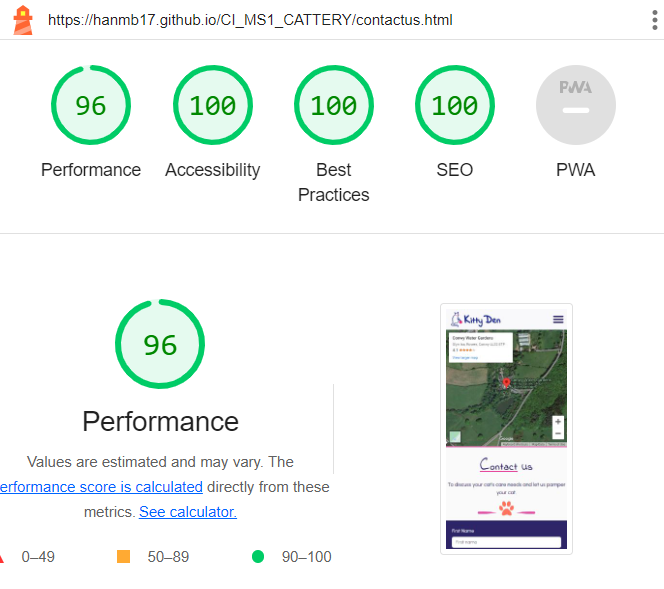
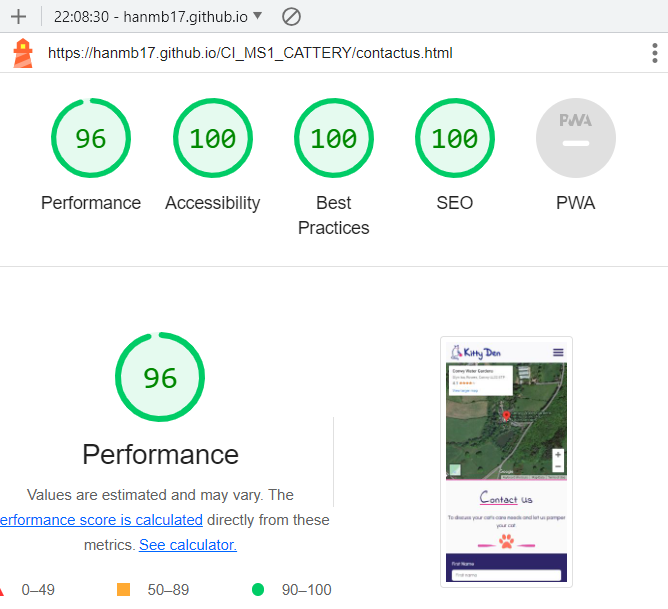
Update contact us performance test results

diff --git a/README.md b/README.md
@@ -474,7 +474,7 @@ services.html - [Results](https://pagespeed.web.dev/analysis/https-hanmb17-githu
 
 gallery.html - [Results](https://pagespeed.web.dev/analysis/https-hanmb17-github-io-CI_MS1_CATTERY-gallery-html/jl63iumug0?form_factor=desktop)
 
-contactus.html - [Results](https://pagespeed.web.dev/analysis/https-hanmb17-github-io-CI_MS1_CATTERY-contactus-html/qza9kmr6c1?form_factor=desktop)
+contactus.html - [Results](https://pagespeed.web.dev/analysis/https-hanmb17-github-io-CI_MS1_CATTERY-contactus-html/3kytrorqdi?form_factor=desktop)
 
 404.html - [Results](https://pagespeed.web.dev/analysis/https-hanmb17-github-io-CI_MS1_CATTERY-404-html/bi7tfsot6q?form_factor=desktop)
 
